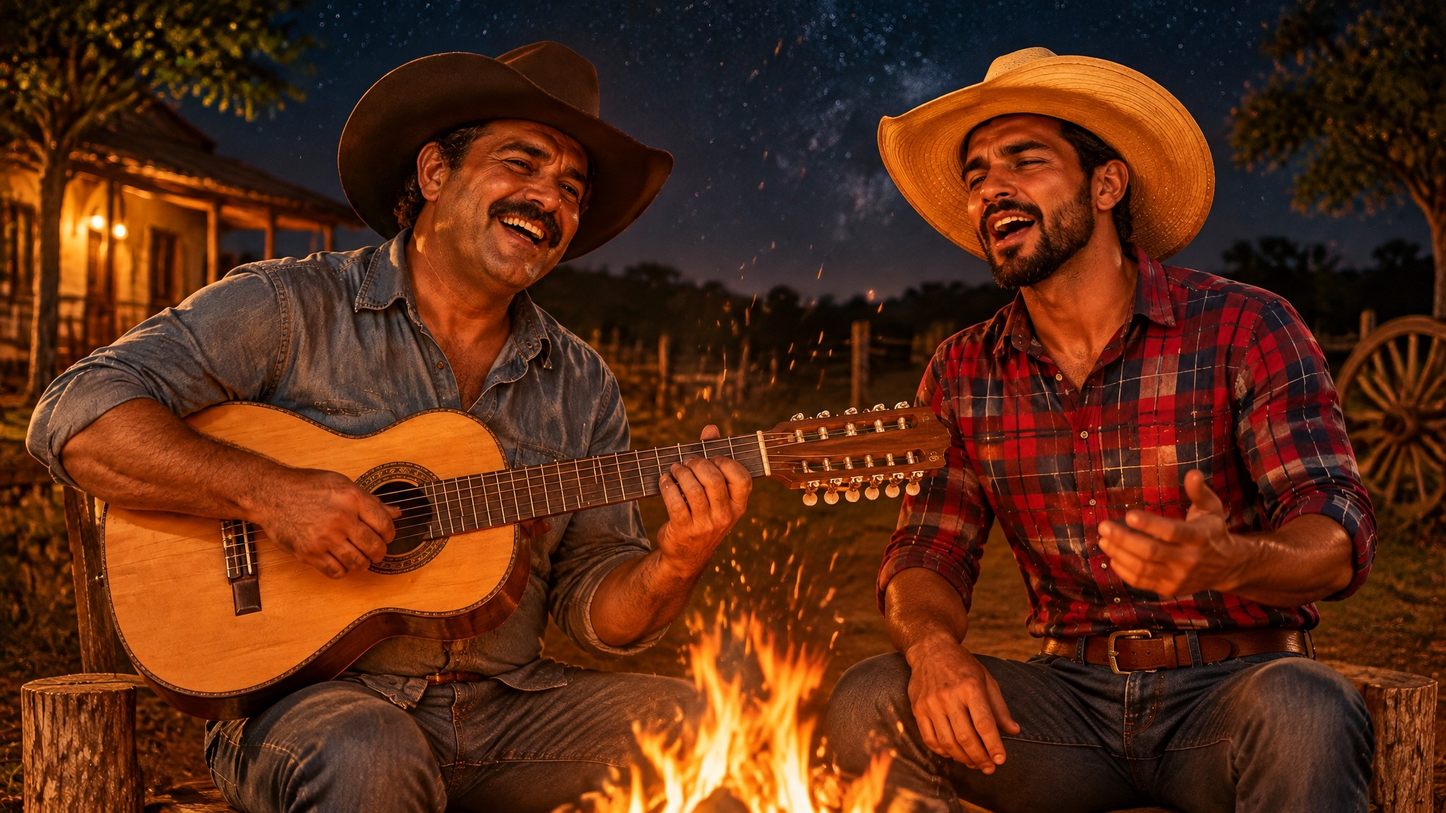
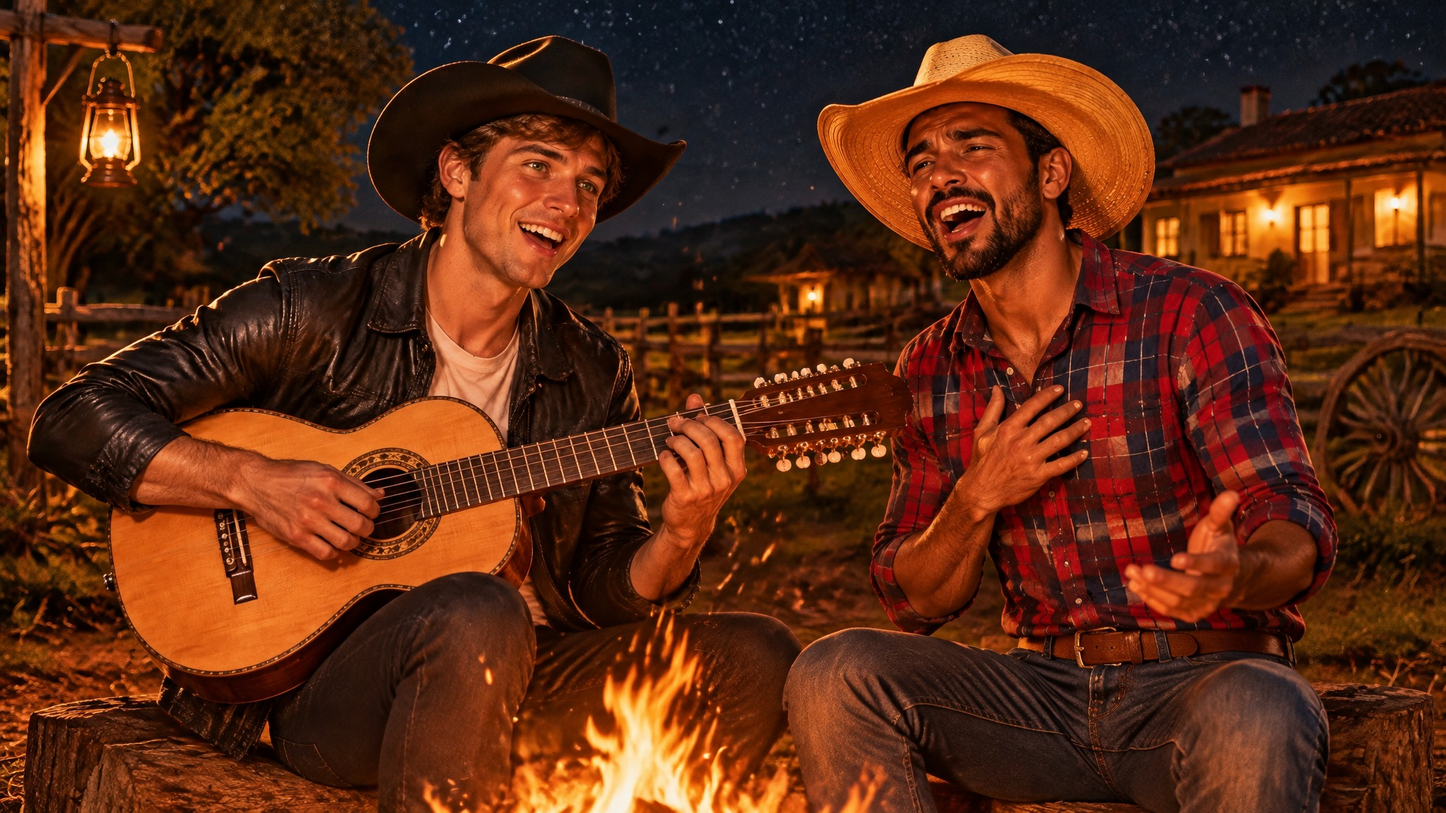
Última Curtida v3: legenda sincronizada amarela e dupla fictícia Tiago e Caio
Claude-Session: https://claude.ai/code/session_01E4nqTe58xHDFc2rD5YSJep

diff --git a/ferramentas/gerar_legenda.py b/ferramentas/gerar_legenda.py
@@ -1,0 +1,66 @@
+#!/usr/bin/env python3
+"""Gera legenda .ass (amarela, embaixo) casando a letra linha a linha com os tempos
+de palavra de uma transcrição (formato ElevenLabs: {"words":[{"text","start","end","type"}]}).
+
+Uso: python3 gerar_legenda.py letra.txt palavras.json saida.ass
+"""
+import json
+import re
+import sys
+import unicodedata
+
+
+def norm(w):
+    w = unicodedata.normalize("NFD", w.lower())
+    w = "".join(c for c in w if unicodedata.category(c) != "Mn")
+    return re.sub(r"[^a-z0-9]", "", w)
+
+
+def ts(t):
+    t = max(0, t)
+    h, r = divmod(t, 3600)
+    m, s = divmod(r, 60)
+    return f"{int(h)}:{int(m):02d}:{s:05.2f}"
+
+
+def main(letra, palavras, saida):
+    linhas = [l.strip() for l in open(letra, encoding="utf-8") if l.strip() and not l.startswith("[")]
+    words = [w for w in json.load(open(palavras))["words"] if w.get("type", "word") == "word"]
+    wn = [norm(w["text"]) for w in words]
+    pos, eventos = 0, []
+    for linha in linhas:
+        toks = [norm(t) for t in linha.split() if norm(t)]
+        # procura a primeira palavra da linha a partir da posição atual
+        ini = next((i for i in range(pos, min(pos + 12, len(wn))) if wn[i] == toks[0]), pos)
+        fim = min(ini + len(toks) - 1, len(words) - 1)
+        eventos.append([words[ini]["start"], words[fim]["end"], linha])
+        pos = fim + 1
+    for e in eventos:
+        e[0] -= 0.15
+    for i, e in enumerate(eventos):
+        prox = eventos[i + 1][0] if i + 1 < len(eventos) else e[1] + 3
+        e[1] = min(e[1] + 0.8, prox - 0.05)
+
+    cab = """[Script Info]
+ScriptType: v4.00+
+PlayResX: 1920
+PlayResY: 1080
+WrapStyle: 0
+
+[V4+ Styles]
+Format: Name, Fontname, Fontsize, PrimaryColour, SecondaryColour, OutlineColour, BackColour, Bold, Italic, Underline, StrikeOut, ScaleX, ScaleY, Spacing, Angle, BorderStyle, Outline, Shadow, Alignment, MarginL, MarginR, MarginV, Encoding
+Style: Letra,DejaVu Sans,62,&H0000FFFF,&H0000FFFF,&H00000000,&H96000000,-1,0,0,0,100,100,0,0,1,4,2,2,80,80,170,1
+
+[Events]
+Format: Layer, Start, End, Style, Name, MarginL, MarginR, MarginV, Effect, Text
+"""
+    with open(saida, "w", encoding="utf-8") as f:
+        f.write(cab)
+        for a, b, txt in eventos:
+            f.write(f"Dialogue: 0,{ts(a)},{ts(b)},Letra,,0,0,0,,{{\\fad(150,150)}}{txt}\n")
+    for a, b, txt in eventos:
+        print(f"{a:7.2f}-{b:7.2f} {txt}")
+
+
+if __name__ == "__main__":
+    main(*sys.argv[1:4])

diff --git a/ferramentas/montar_clipe.py b/ferramentas/montar_clipe.py
@@ -108,6 +108,10 @@ def main(roteiro_path, saida):
         filt.append("[w][m]alphamerge,colorchannelmixer=aa=0.8[viz]")
         filt.append(f"{prev}[viz]overlay=x=W-w-48:y=H-h-40:shortest=1[vz]")
         prev = "[vz]"
+    if r.get("legenda"):
+        leg = os.path.join(base, r["legenda"]).replace("\\", "/").replace(":", r"\:").replace("'", r"\'")
+        filt.append(f"{prev}ass='{leg}'[lg]")
+        prev = "[lg]"
     filt.append(f"{prev}fade=t=in:st=0:d=1,fade=t=out:st={total-2}:d=2[vout]")
     fscript = os.path.join(tmp, "filtro.txt")
     open(fscript, "w").write(";\n".join(filt))
